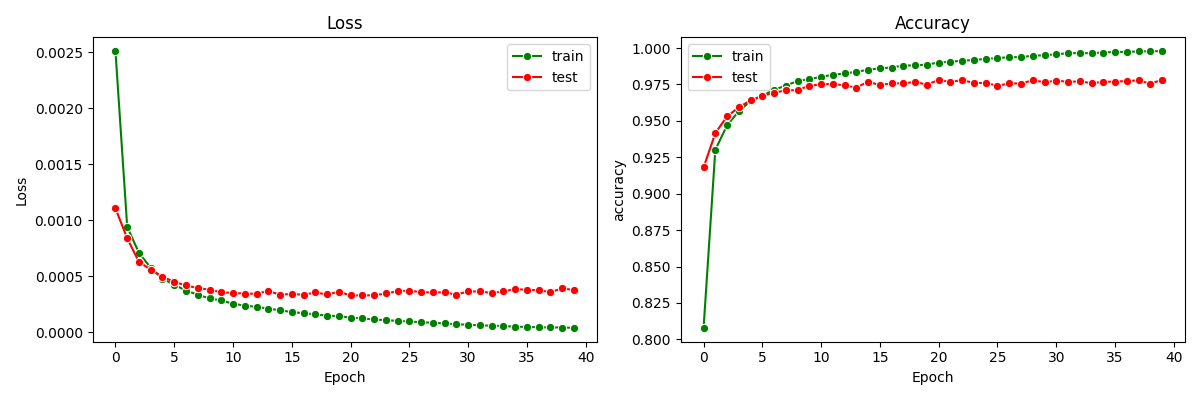
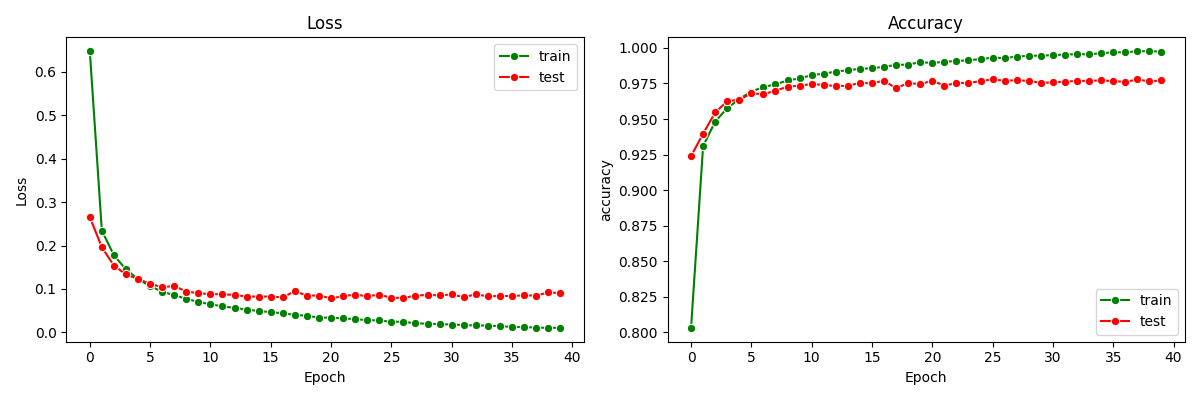
update

diff --git a/template/main.py b/template/main.py
@@ -53,14 +53,14 @@ def train(model, trn_loader, device, criterion, optimizer):
             loss.backward()  
             optimizer.step()  
             
-            # loss count
+            # loss sum
             total_loss    += loss.item()
             
             # accuracy count
             correct_num += (torch.argmax(predict, dim=1) == label).sum().item()
 
 
-        trn_loss = total_loss / total_samples
+        trn_loss = total_loss / len(trn_loader[0])
         acc  = correct_num / total_samples
 
         trn_loss_list.append(trn_loss)
@@ -133,14 +133,14 @@ def test(model, tst_loader, device, criterion):
 
         loss = criterion(predict, label)
         
-        # loss count
+        # loss sum
         total_loss  += loss.item()
         
         # accuracy count
         correct_num += (torch.argmax(predict, dim=1) == label).sum().item()
 
 
-        tst_loss = total_loss / total_samples
+        tst_loss = total_loss / len(tst_loader)
         acc  = correct_num / total_samples
 
     return tst_loss, acc

diff --git a/readme.md b/readme.md
@@ -74,7 +74,7 @@ b. How to compute model parameters
 ### (3) Comparing the predictive performances
 
   - LeNet5      : (Test accuracy) 0.990
-  - CustomMLP   : (Test accuracy) 0.978
+  - CustomMLP   : (Test accuracy) 0.977
     - LeNet5 shows higher performances than CustomMLP
 
 
